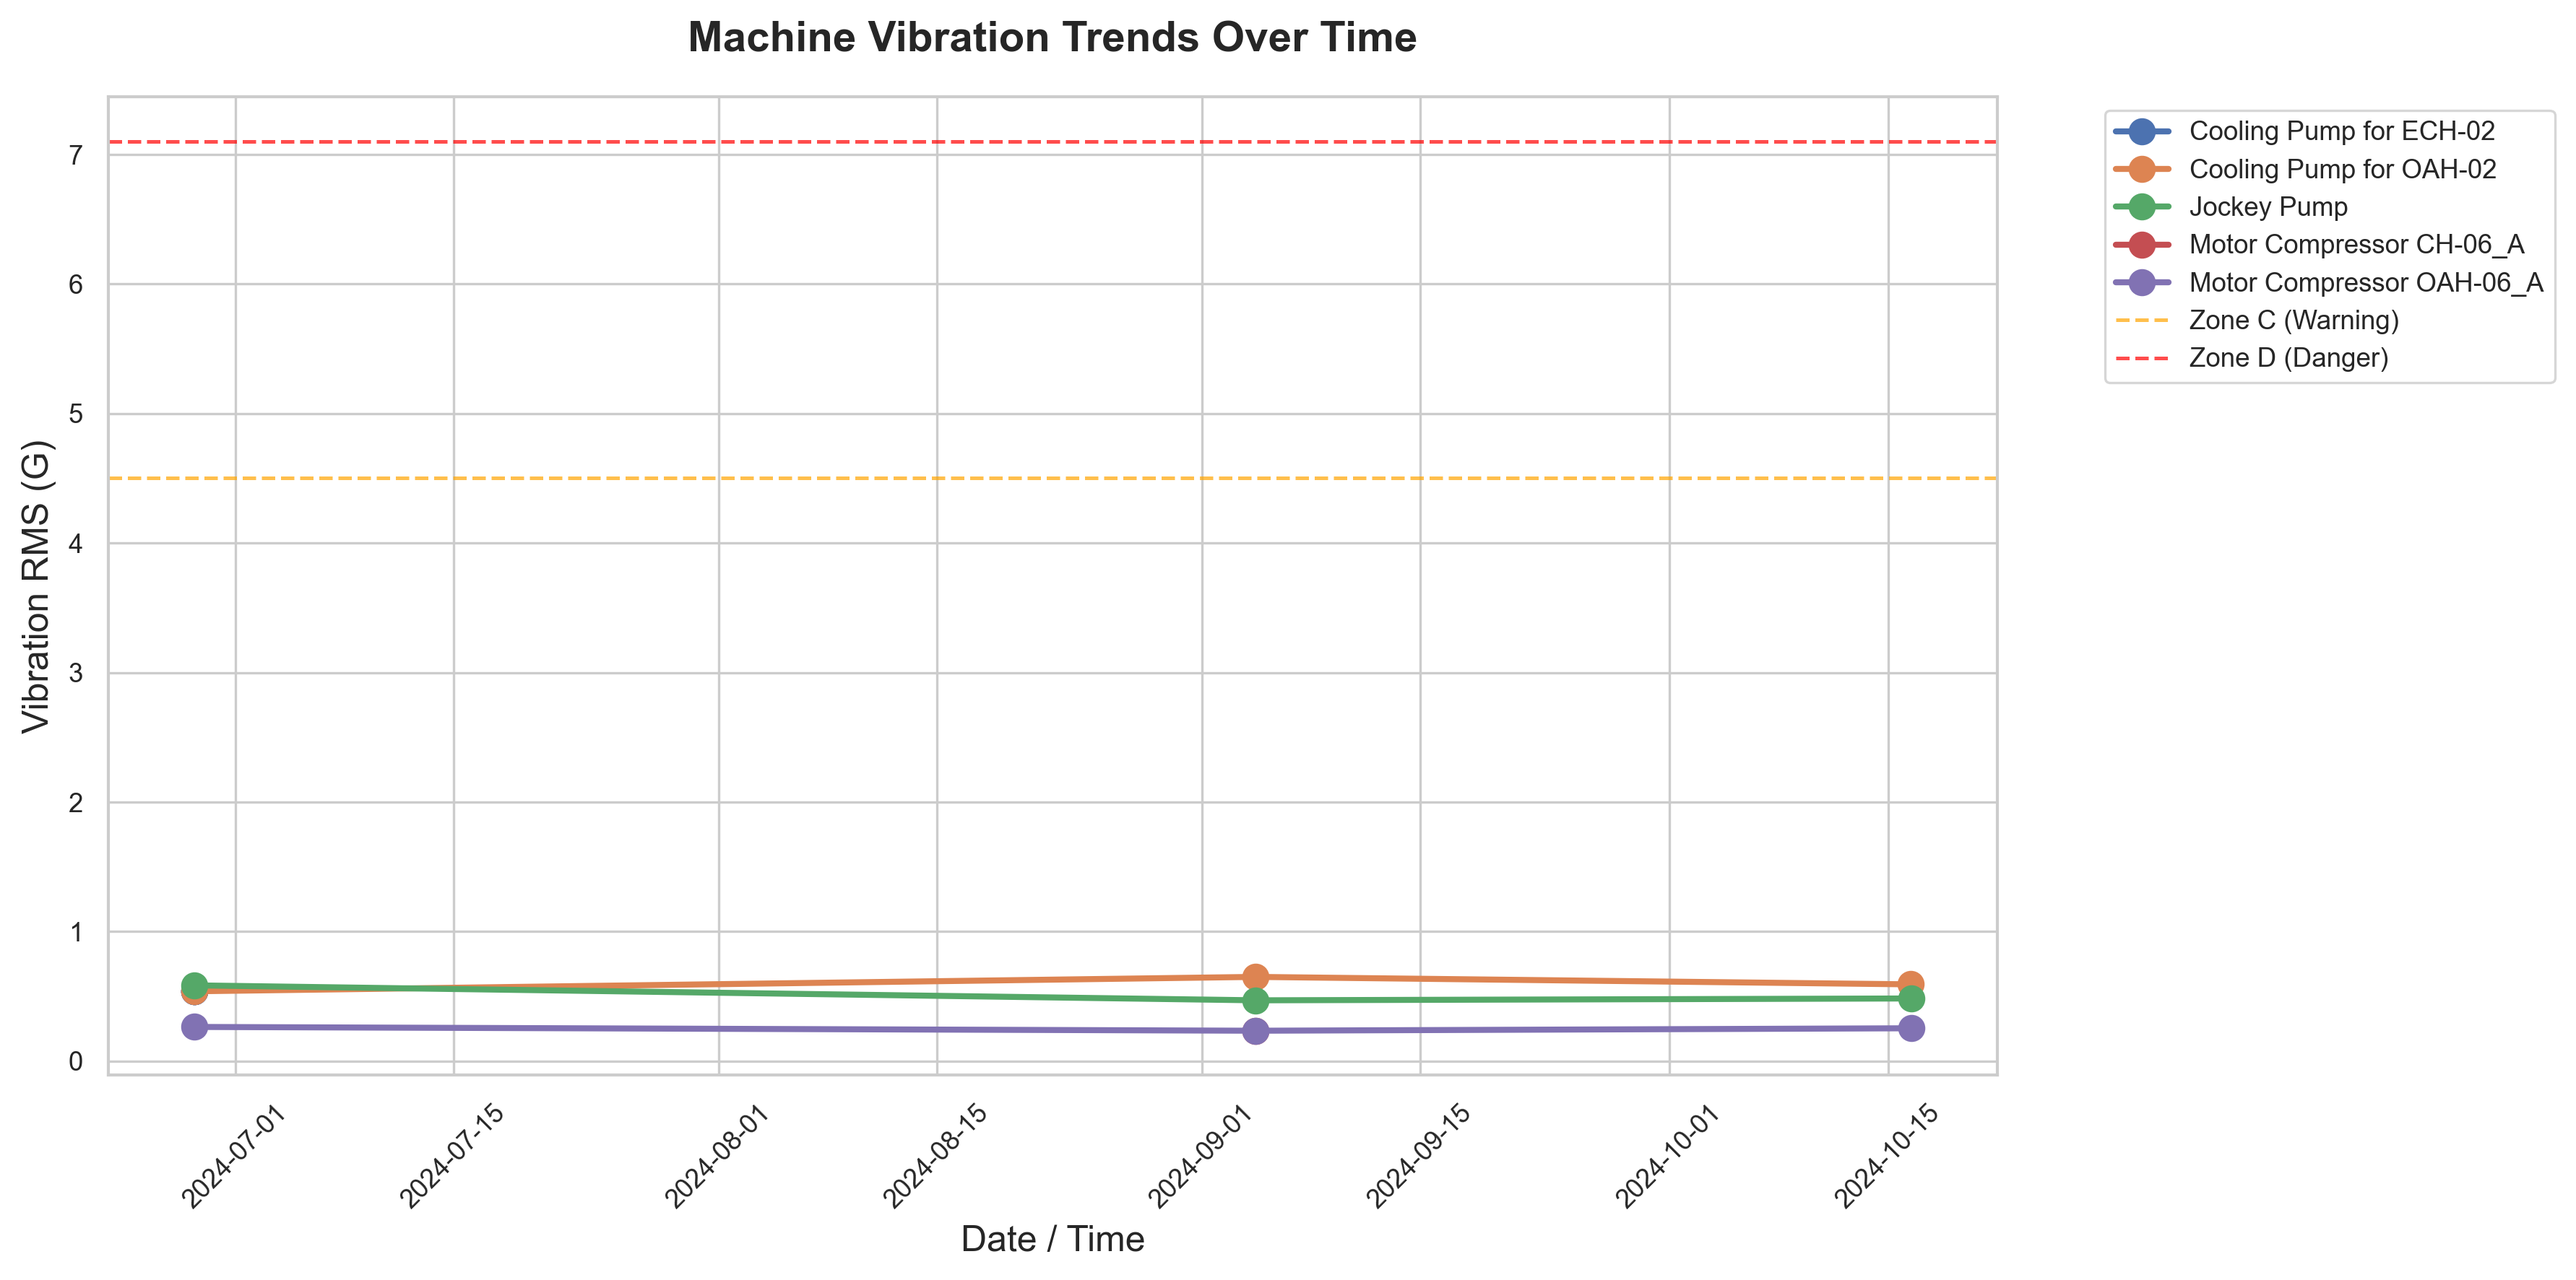
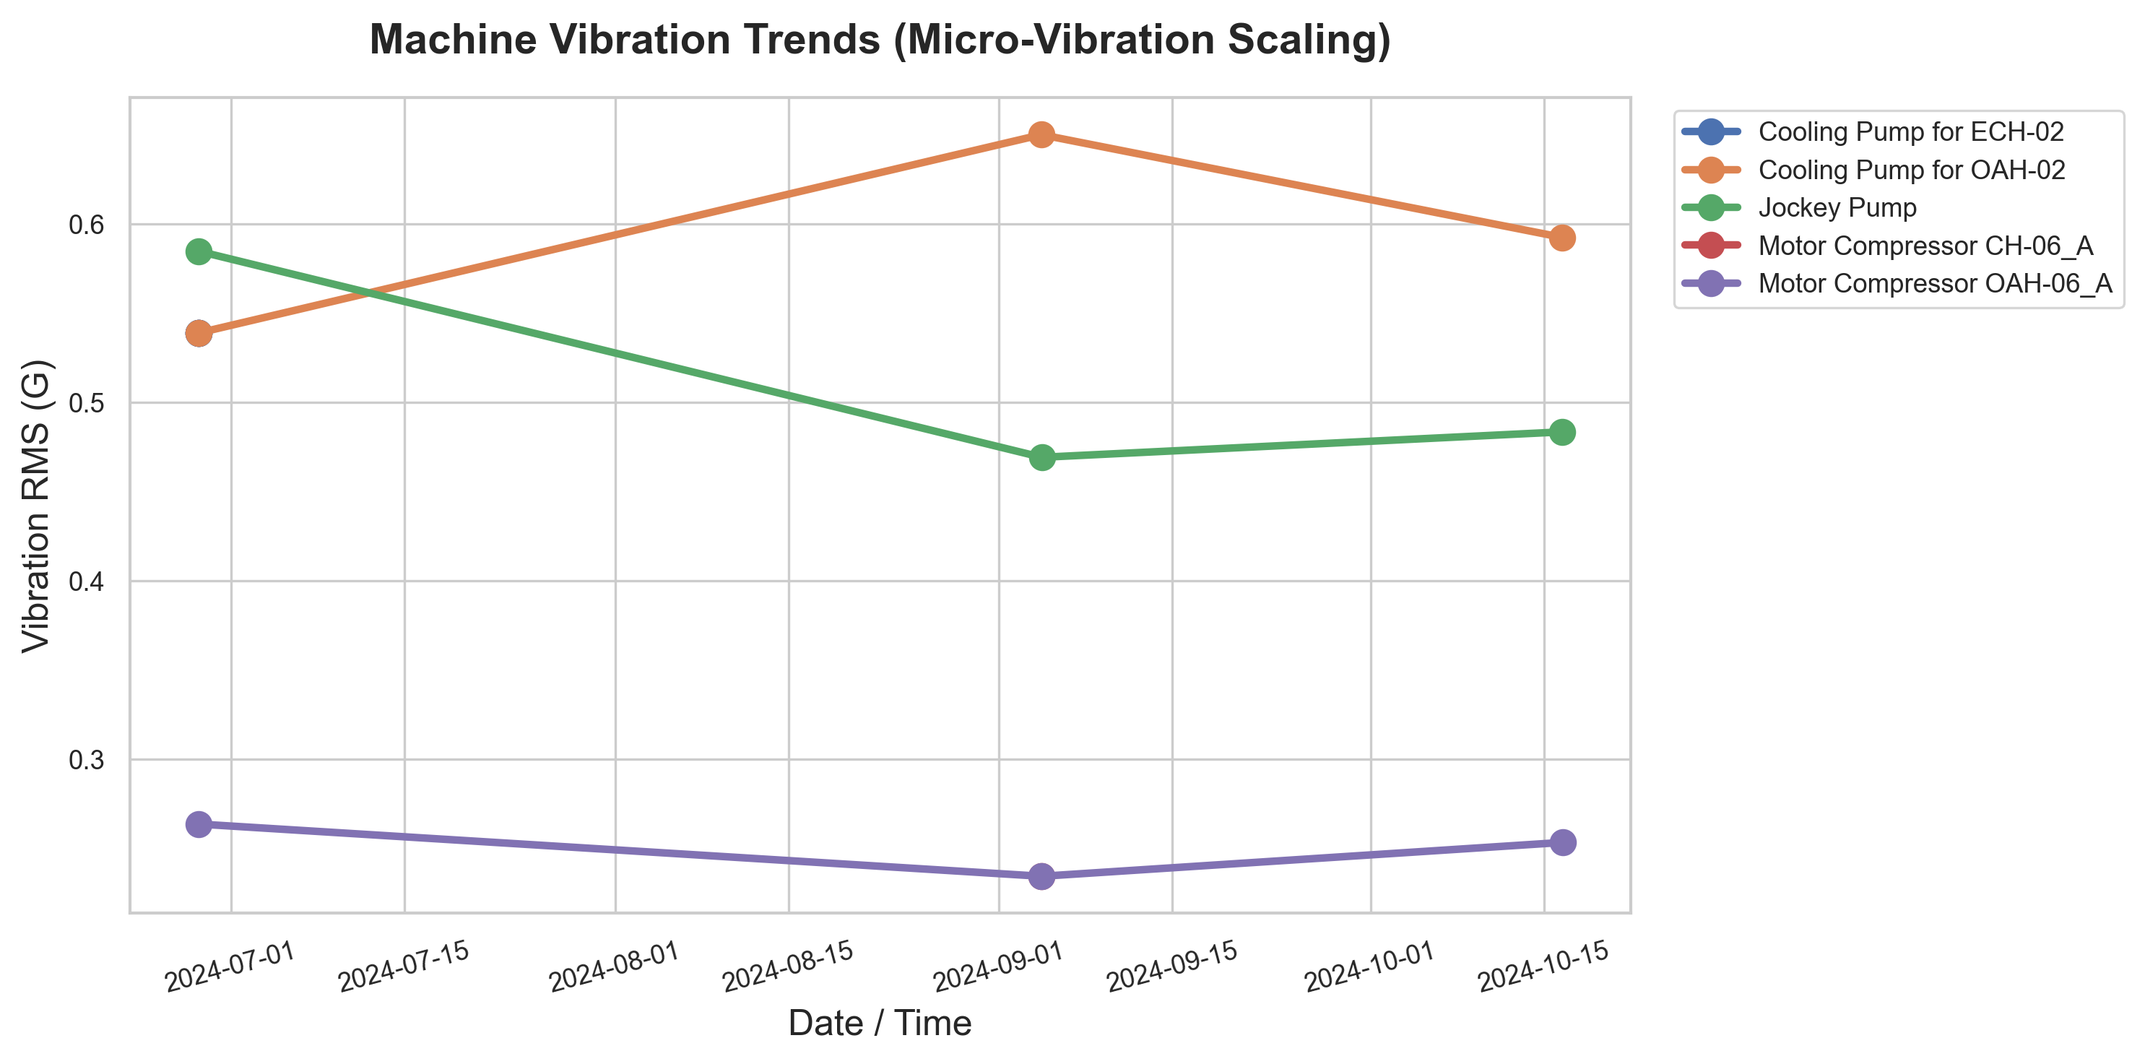
fix(viz): Enhance charts to show percentage growth and dynamic scaling

diff --git a/core/visualize.py b/core/visualize.py
@@ -3,40 +3,32 @@ import pandas as pd
 import numpy as np
 import matplotlib.pyplot as plt
 import seaborn as sns
-from matplotlib.dates import DateFormatter
 import warnings
-warnings.filterwarnings('ignore', category=UserWarning) # Suppress tight_layout warnings
+warnings.filterwarnings('ignore') # Suppress warnings
 
 def generate_visualizations(logs_table, out_dir):
-    """
-    สร้างกราฟวิเคราะห์ข้อมูลแบบต่างๆ จาก Logs หมวดหมู่ 
-    - กราฟ 1: Scatter & Line plot สำหรับดูแนวโน้ม (Time-Series Trend) แบบแยกเครื่อง
-    - กราฟ 2: Bar chart เปรียบเทียบสถานะ RMS ล่าสุดเครื่องจักรทั้งหมด
-    - กราฟ 3: Heatmap สรุปค่าสั่นแยกตามเวลา
-    """
-    print("\n[-] Generating Data Visualizations...")
+    print("\n[-] Generating Data Visualizations (Enhanced Insights)...")
     os.makedirs(out_dir, exist_ok=True)
     
     # -------------------------------------------------------------
-    # 1. Timeline (Scatter & Line Plot) - การเติบโตของการสั่นตามเวลา
+    # 1. Timeline (Scatter & Line Plot) - Auto scaled to see the actual trend
     # -------------------------------------------------------------
-    plt.figure(figsize=(12, 6))
+    plt.figure(figsize=(10, 5))
     sns.set_theme(style="whitegrid", context="paper")
     
-    # Plot individual machine timelines
     for asst, group_df in logs_table.groupby("Equipment"):
         ordered = group_df.sort_values("Timestamp")
         plt.plot(ordered['Timestamp'], ordered['RMS_Value'], 
-                 marker='o', linestyle='-', linewidth=2, markersize=8, label=asst)
+                 marker='o', linestyle='-', linewidth=2.5, markersize=8, label=asst)
     
-    plt.axhline(y=4.5, color='orange', linestyle='--', alpha=0.7, label='Zone C (Warning)')
-    plt.axhline(y=7.1, color='red', linestyle='--', alpha=0.7, label='Zone D (Danger)')
-
-    plt.title('Machine Vibration Trends Over Time', fontsize=14, pad=15, fontweight='bold')
+    # Removed the 4.5 / 7.1 ISO limits here because our data is in G (0.2 - 0.6) 
+    # Having those limits crushes the Y-axis scale and makes the data look like a flat line at 0.
+    
+    plt.title('Machine Vibration Trends (Micro-Vibration Scaling)', fontsize=14, pad=15, fontweight='bold')
     plt.xlabel('Date / Time', fontsize=12)
     plt.ylabel('Vibration RMS (G)', fontsize=12)
-    plt.xticks(rotation=45)
-    plt.legend(bbox_to_anchor=(1.05, 1), loc='upper left')
+    plt.xticks(rotation=15)
+    plt.legend(bbox_to_anchor=(1.02, 1), loc='upper left')
     plt.tight_layout()
     
     timeline_path = os.path.join(out_dir, "plot_1_vibration_timeline.png")
@@ -44,64 +36,55 @@ def generate_visualizations(logs_table, out_dir):
     plt.close()
     
     # -------------------------------------------------------------
-    # 2. Latest Asset Condition (Bar Chart)
+    # 2. Shift in Vibration (First vs Latest) - Grouped Bar Chart
     # -------------------------------------------------------------
+    # This chart tells us "Did the machine get worse since its first record?"
     plt.figure(figsize=(10, 6))
     
-    # Extract just the latest record for each machine
-    latest_idx = logs_table.groupby("Equipment")['Timestamp'].idxmax()
-    latest_df = logs_table.loc[latest_idx].sort_values("RMS_Value", ascending=False)
+    first_records = logs_table.loc[logs_table.groupby("Equipment")['Timestamp'].idxmin()][['Equipment', 'RMS_Value']]
+    latest_records = logs_table.loc[logs_table.groupby("Equipment")['Timestamp'].idxmax()][['Equipment', 'RMS_Value']]
     
-    # Assign colors based on zone (A=green, B=yellow, C=orange, D=red)
-    def determine_color(val):
-        if val >= 7.1: return '#e74c3c'
-        elif val >= 4.5: return '#f39c12'
-        elif val >= 2.3: return '#f1c40f'
-        return '#2ecc71'
-        
-    bar_colors = [determine_color(x) for x in latest_df['RMS_Value']]
+    first_records.rename(columns={'RMS_Value': 'Initial_RMS'}, inplace=True)
+    latest_records.rename(columns={'RMS_Value': 'Latest_RMS'}, inplace=True)
     
-    ax = sns.barplot(x="RMS_Value", y="Equipment", data=latest_df, palette=bar_colors)
+    merged_shift = pd.merge(first_records, latest_records, on='Equipment')
+    merged_shift_melted = merged_shift.melt(id_vars='Equipment', var_name='Reading', value_name='RMS (G)')
     
-    # Add value text at the end of each bar
-    for index, value in enumerate(latest_df['RMS_Value']):
-        ax.text(value + 0.02, index, f'{value:.2f}', va='center')
-
-    plt.title('Current Machine Health Condition (Latest RMS)', fontsize=14, pad=15, fontweight='bold')
+    sns.barplot(data=merged_shift_melted, x='RMS (G)', y='Equipment', hue='Reading', palette=['#3498db', '#e74c3c'])
+    
+    plt.title('Vibration Shift: Initial Calibration vs Latest Reading', fontsize=14, pad=15, fontweight='bold')
     plt.xlabel('Vibration RMS (G)', fontsize=12)
     plt.ylabel('Asset Name', fontsize=12)
+    plt.legend(title='Record Time')
     plt.tight_layout()
     
-    bar_path = os.path.join(out_dir, "plot_2_latest_condition_bar.png")
+    bar_path = os.path.join(out_dir, "plot_2_initial_vs_latest.png")
     plt.savefig(bar_path, dpi=300, bbox_inches='tight')
     plt.close()
 
     # -------------------------------------------------------------
-    # 3. Vibration Heatmap (Month vs Equipment)
+    # 3. Percentage Growth Heatmap (% Change from Baseline)
     # -------------------------------------------------------------
+    # A raw value heatmap doesn't show much if values are similar. % Growth shows true degradation.
     plt.figure(figsize=(10, 6))
     
-    # Create month-year column for grouping
     logs_table['Month_Year'] = logs_table['Timestamp'].dt.strftime('%Y-%m')
+    pivot_raw = logs_table.pivot_table(index='Equipment', columns='Month_Year', values='RMS_Value', aggfunc='mean')
     
-    # Pivot for Heatmap (take mean if multiple reads in same month)
-    pivot_tb = logs_table.pivot_table(
-        index='Equipment', 
-        columns='Month_Year', 
-        values='RMS_Value', 
-        aggfunc='mean'
-    )
+    # Calculate percentage change based on the first recorded column
+    first_col = pivot_raw.iloc[:, 0]
+    growth_pivot = pivot_raw.apply(lambda x: ((x - first_col) / first_col) * 100)
     
-    sns.heatmap(pivot_tb, annot=True, fmt=".2f", cmap="YlOrRd", 
-                linewidths=0.5, cbar_kws={'label': 'RMS (G)'})
+    sns.heatmap(growth_pivot, annot=True, fmt=".1f", cmap="vlag", center=0,
+                linewidths=1, linecolor='white', cbar_kws={'label': '% Change in Vibration'})
     
-    plt.title('Average Vibration Heatmap by Month', fontsize=14, pad=15, fontweight='bold')
+    plt.title('Degradation Heatmap (% Growth from Initial Measurement)', fontsize=14, pad=15, fontweight='bold')
     plt.xlabel('Recording Month', fontsize=12)
     plt.ylabel('Machine', fontsize=12)
     plt.tight_layout()
     
-    heat_path = os.path.join(out_dir, "plot_3_heat_map.png")
+    heat_path = os.path.join(out_dir, "plot_3_growth_heatmap.png")
     plt.savefig(heat_path, dpi=300, bbox_inches='tight')
     plt.close()
     
-    print(f"[+] 3 Charts generated inside -> {out_dir}/")
+    print(f"[+] 3 Enhanced Charts generated inside -> {out_dir}/")
